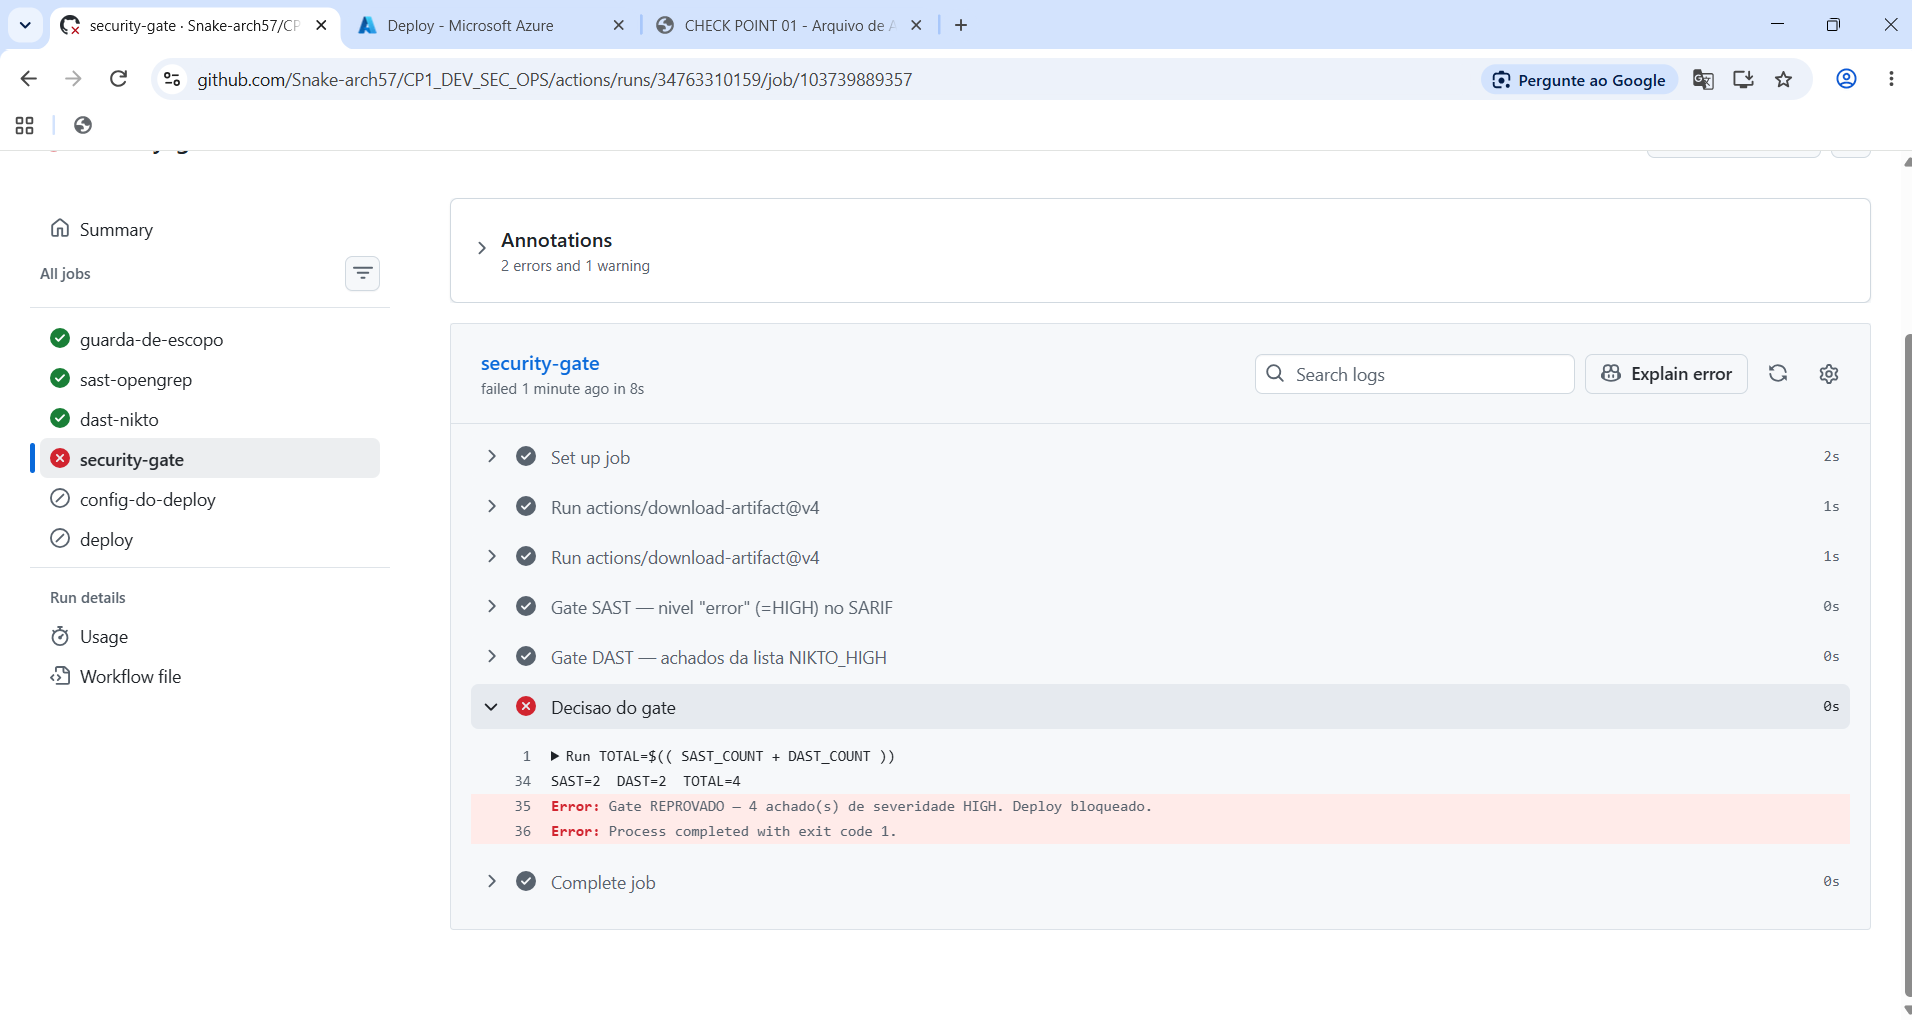
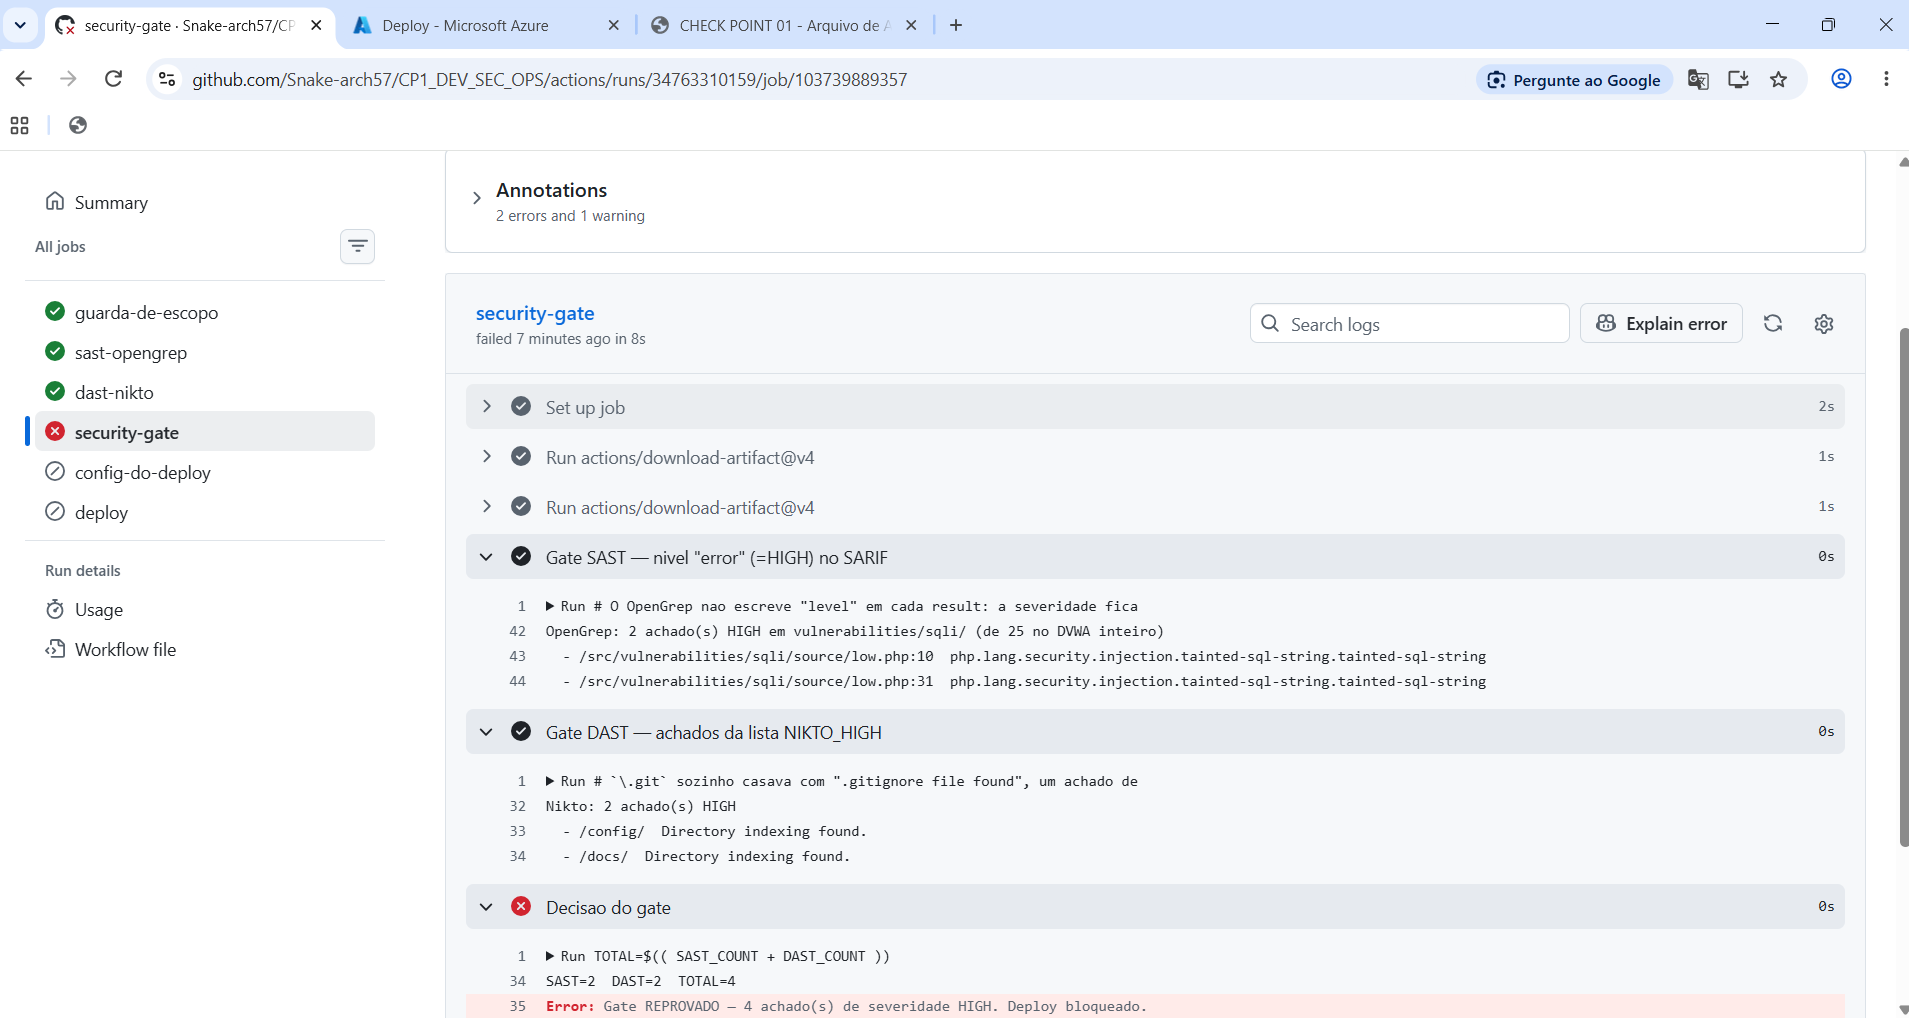
docs: print do build vermelho com os quatro achados nomeados
Troca a captura pela versao com os steps "Gate SAST" e "Gate DAST" tambem
expandidos. A anterior mostrava so o total (SAST=2 DAST=2 TOTAL=4); esta
nomeia cada achado:

  - low.php:10 e low.php:31, regra tainted-sql-string
  - /config/ e /docs/, Directory indexing

E a rastreabilidade que o passo 5 do LAB.md pede: o achado que a turma
procura no SARIF durante o passo 3 e literalmente o mesmo que derruba o
build. Com o total sozinho, o avaliador tinha de acreditar; com os quatro
nomeados, ele confere.

diff --git a/evidencias/README.md b/evidencias/README.md
@@ -17,9 +17,21 @@ disparada em *Actions > security-gate > Run workflow* com a opção
 `remediacao` **desmarcada**.
 
 ```
+OpenGrep: 2 achado(s) HIGH em vulnerabilities/sqli/ (de 25 no DVWA inteiro)
+  - /src/vulnerabilities/sqli/source/low.php:10  ...tainted-sql-string
+  - /src/vulnerabilities/sqli/source/low.php:31  ...tainted-sql-string
+
+Nikto: 2 achado(s) HIGH
+  - /config/  Directory indexing found.
+  - /docs/    Directory indexing found.
+
 SAST=2  DAST=2  TOTAL=4
 Gate REPROVADO — 4 achado(s) de severidade HIGH. Deploy bloqueado.
 ```
+
+O print traz os quatro achados **nomeados**, com arquivo, linha e regra. É a
+rastreabilidade que o passo 5 do `LAB.md` pede: o achado que a turma procura
+no SARIF durante o passo 3 é literalmente o mesmo que derruba o build.
 
 | Job | Resultado |
 |---|---|
